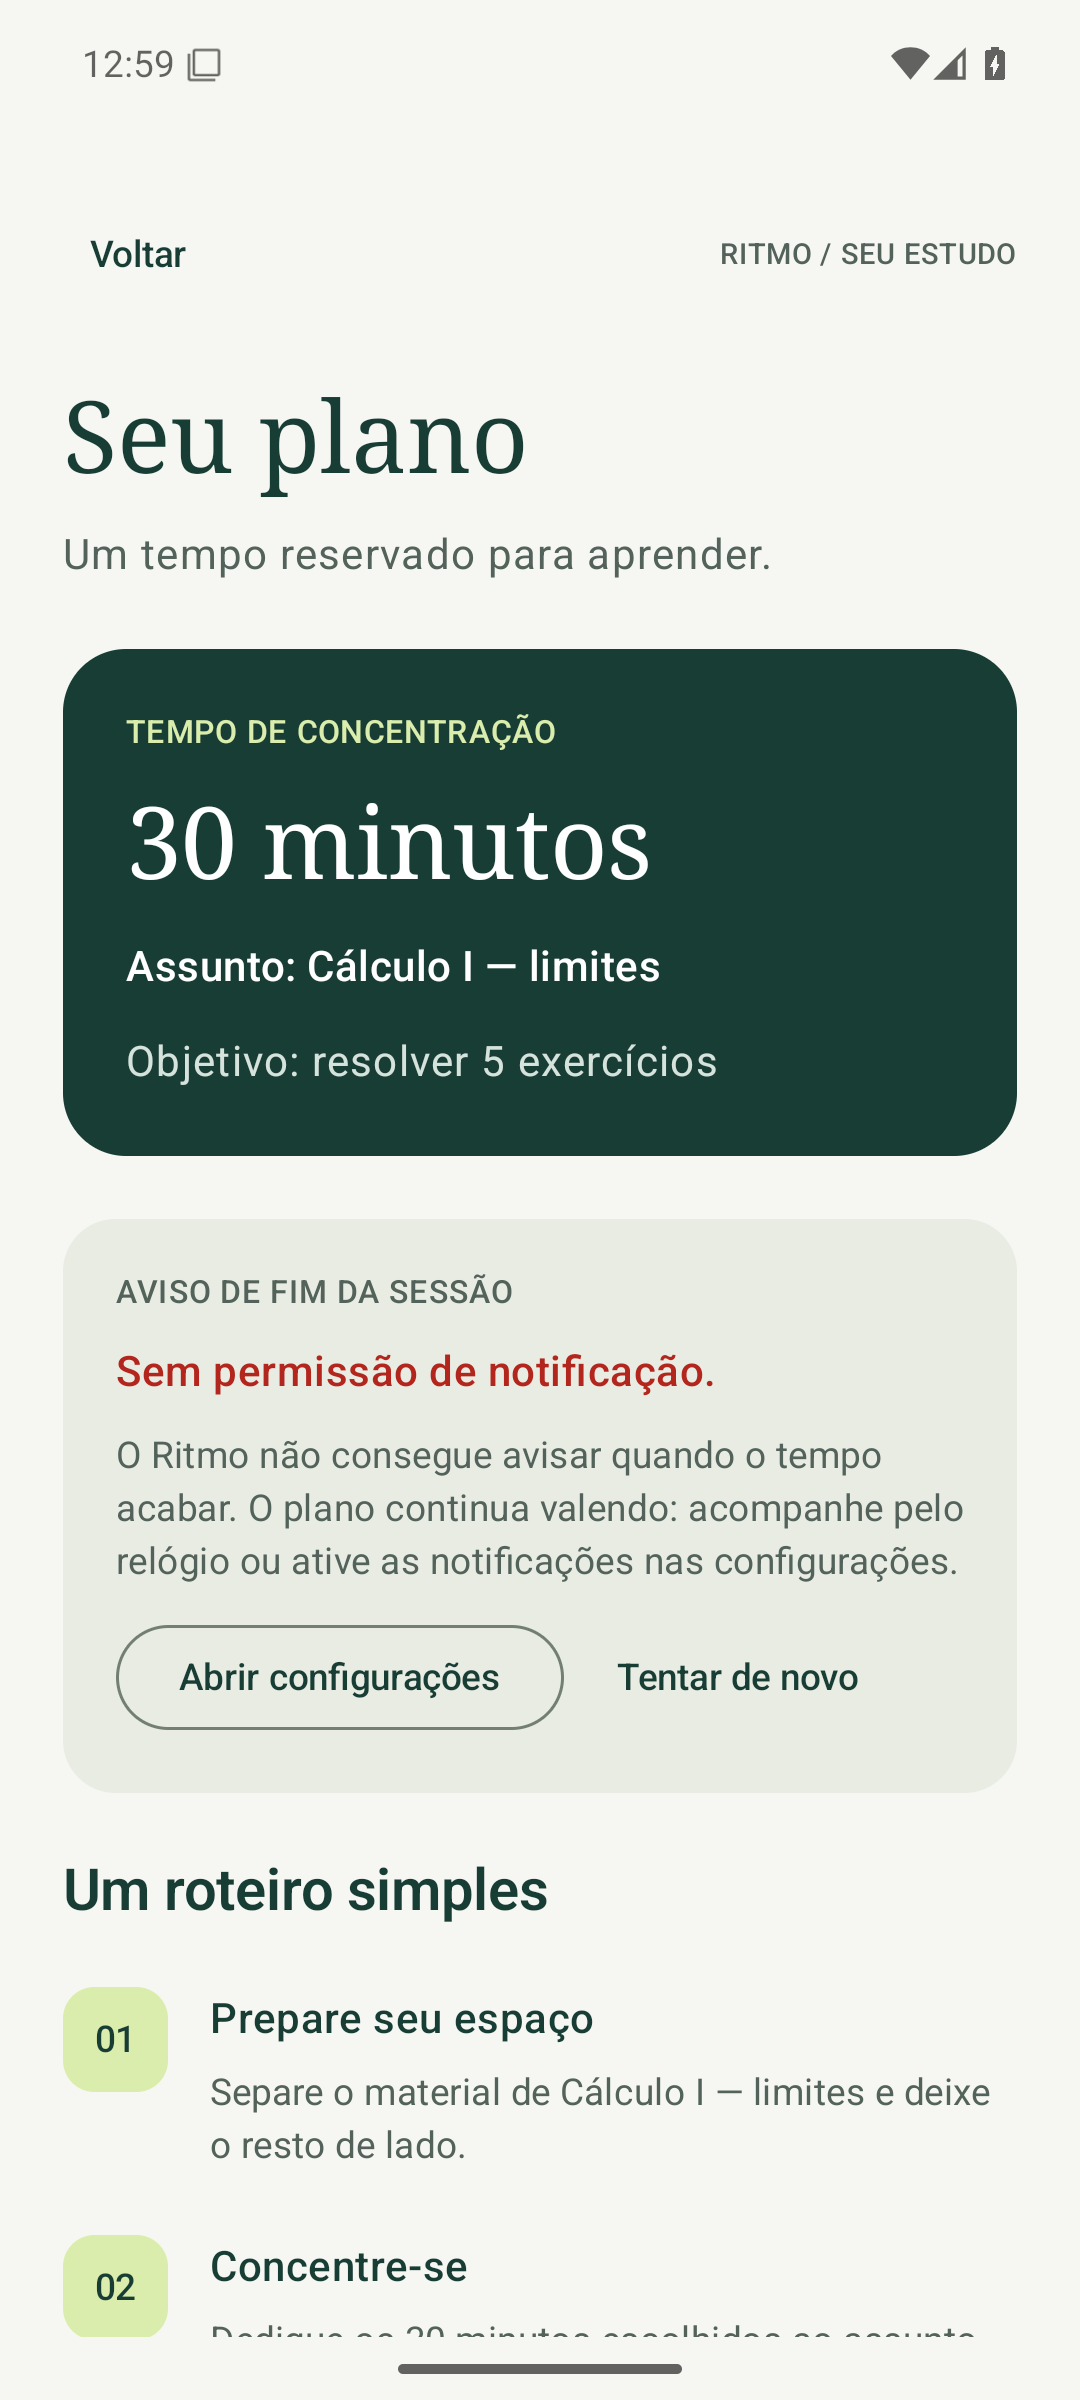
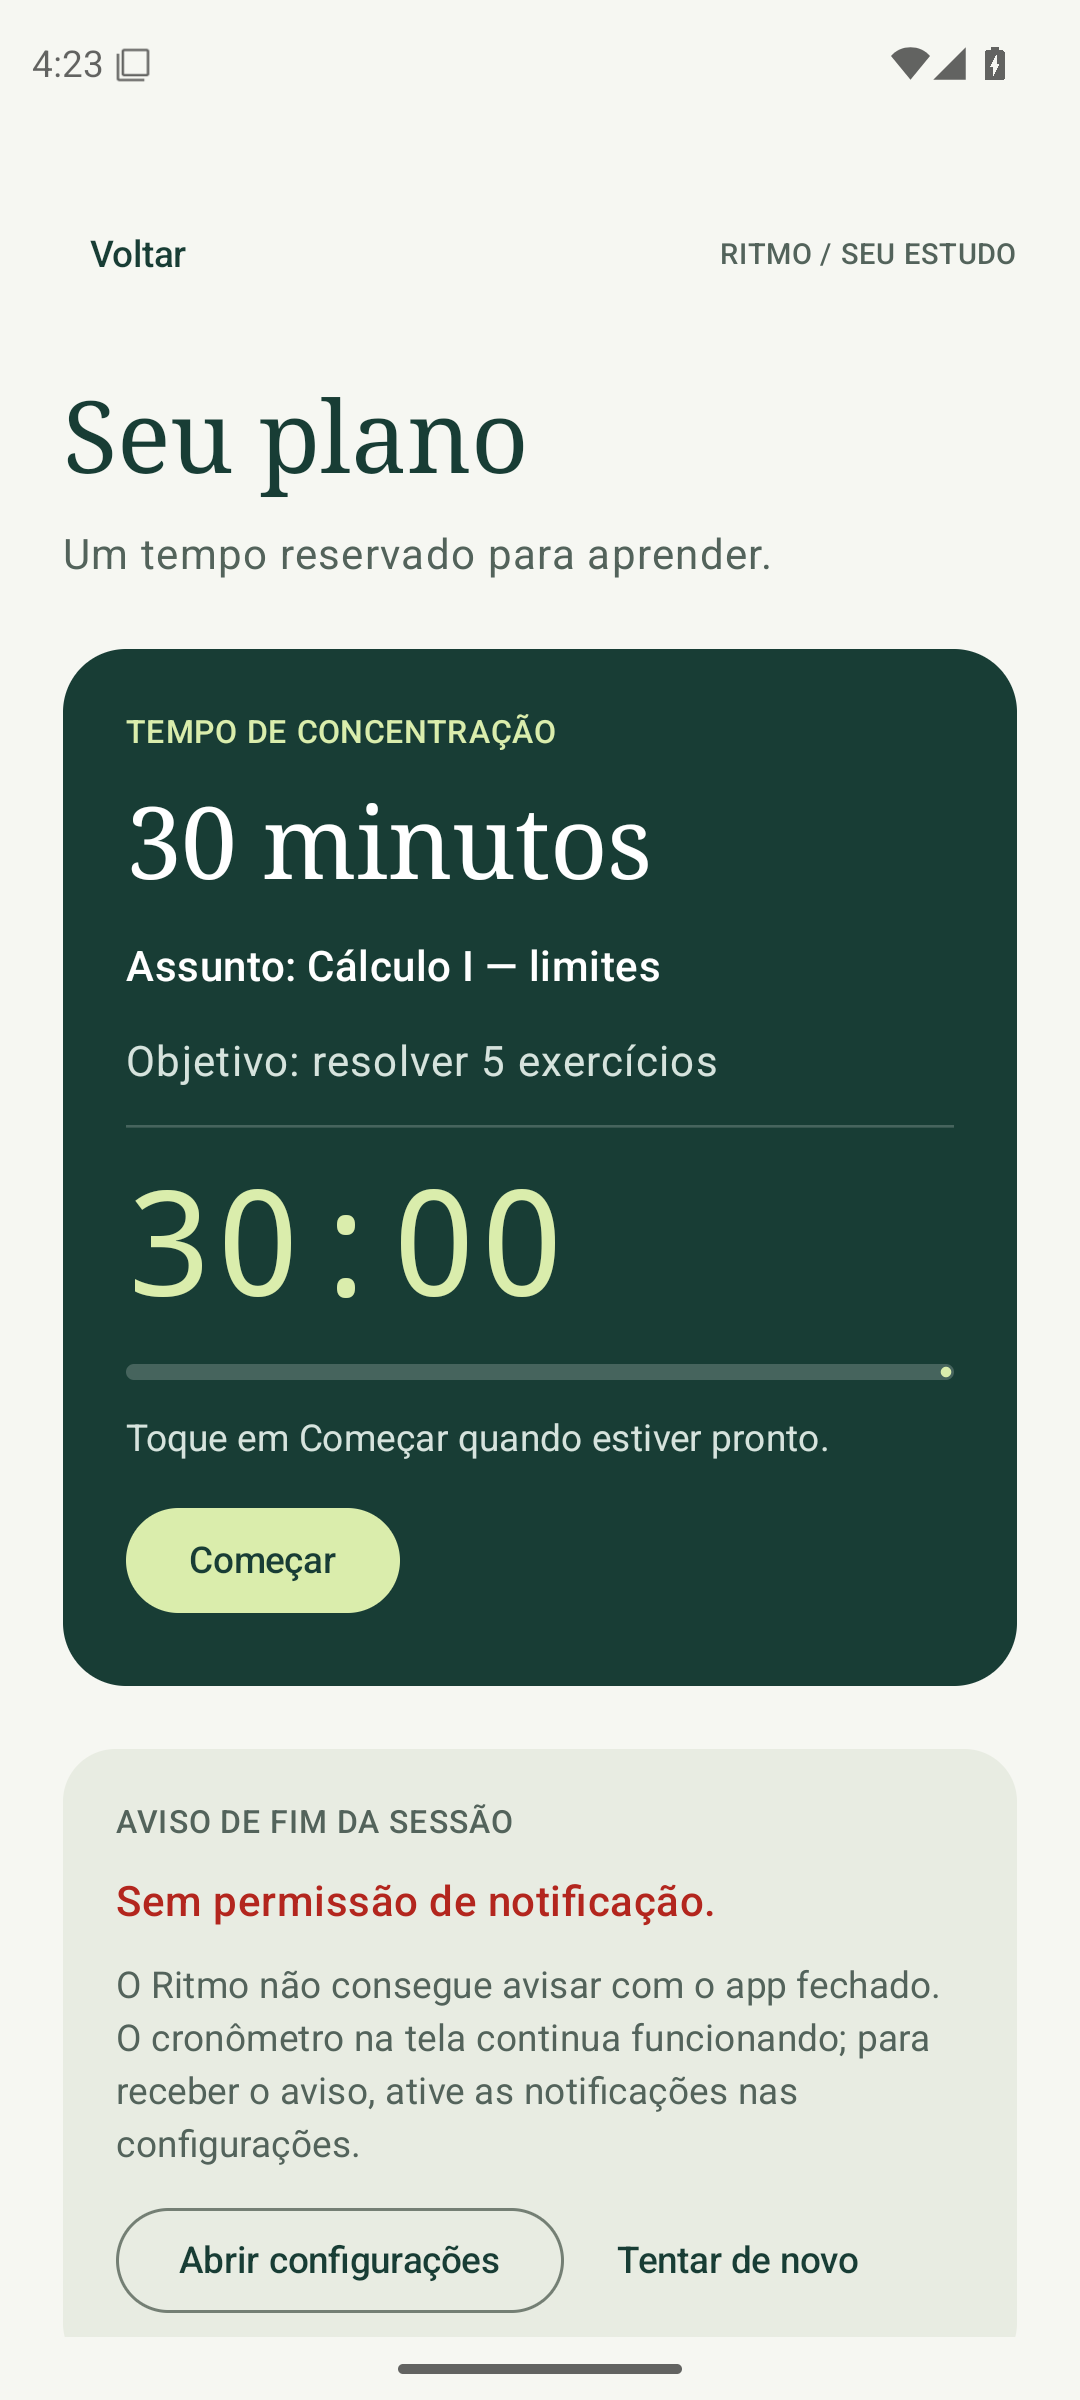
docs: document timer, weekly goal and history improvements
Claude-Session: https://claude.ai/code/session_01E2sQ1PkPeivorK7iFCHZqa

diff --git a/projects/team-09/evidence/sprint-06/validation.md b/projects/team-09/evidence/sprint-06/validation.md
@@ -9,11 +9,11 @@ Comandos, a partir de `app/`:
 
 | Conjunto | Resultado |
 | --- | --- |
-| Testes locais (`SessionRulesTest`) | 9 aprovados, 0 falhas; 3 novos para a regra VR-05 ([unit-tests.xml](unit-tests.xml)) |
-| Testes instrumentados | 25 aprovados, 0 falhas; 6 testes de evidência ignorados nessa execução, conforme previsto ([instrumented-tests.xml](instrumented-tests.xml)) |
-| Lint | 0 erros e 19 avisos ([lint.txt](lint.txt)) |
+| Testes locais | 17 aprovados, 0 falhas: `SessionRulesTest` 9 (3 novos para a regra VR-05), `StudyTimerTest` 5 e `WeeklyGoalTest` 3 ([unit-tests.xml](unit-tests.xml)) |
+| Testes instrumentados | 31 aprovados, 0 falhas; 8 testes de evidência ignorados nessa execução, conforme previsto ([instrumented-tests.xml](instrumented-tests.xml)) |
+| Lint | 0 erros e 21 avisos ([lint.txt](lint.txt)) |
 
-Testes instrumentados por classe: `FormTest` 7, `DurationTest` 5 (reescrito para a duração digitada), `HistoryTest` 5, `NavigationTest` 4, `ReminderTest` 3 (novo) e `WelcomeTest` 1.
+Testes instrumentados por classe: `FormTest` 7, `HistoryTest` 7, `DurationTest` 5 (reescrito para a duração digitada), `NavigationTest` 4, `ReminderTest` 4, `TimerTest` 3 e `WelcomeTest` 1.
 
 ## Cenários da integração
 
@@ -22,8 +22,18 @@ Antes de cada passo de evidência, o script retira a permissão de notificação
 | Cenário | Passo | Resultado |
 | --- | --- | --- |
 | Alternativo: permissão negada | `Sprint06Evidence#notificationDenied` toca em **Não permitir** | O cartão mostra “Sem permissão de notificação.”, com a explicação, Abrir configurações e Tentar de novo ([integration-alternative-state.png](integration-alternative-state.png)) |
-| Sucesso: permissão concedida | `Sprint06Evidence#notificationAllowed` toca em **Permitir** | “Aviso marcado para 13:30.” (30 min depois das 13:00 do emulador) e Cancelar aviso ([integration-success.png](integration-success.png)) |
+| Sucesso: permissão concedida | `Sprint06Evidence#notificationAllowed` toca em **Permitir** | “Aviso marcado para 16:53.” (30 min depois do horário do emulador) e Cancelar aviso ([integration-success.png](integration-success.png)) |
 | Sucesso: notificação | No mesmo passo, o `SessionEndWorker` é executado sem esperar os 30 minutos | A gaveta mostra “Sessão concluída: Cálculo I — limites” / “Seus 30 minutos acabaram. Hora de fazer uma pausa.” ([integration-notification.png](integration-notification.png)) |
+
+## Melhorias de uso
+
+| Cenário | Verificação | Resultado |
+| --- | --- | --- |
+| Cronômetro | `TimerTest`: começa no tempo digitado; Começar, Pausar (o tempo para), Continuar e Recomeçar; continua rodando após recriar a tela. `ImprovementsEvidence#timer` | PASS ([timer-running.png](timer-running.png)) |
+| Aviso acompanha o cronômetro | `ReminderTest.reminderFollowsTheTimer`: pausar deixa o trabalho `CANCELLED` e mostra “Aviso pausado junto com o cronômetro.”; continuar volta a `ENQUEUED` | PASS |
+| Meta da semana | `HistoryTest.weeklyGoalCountsSavedMinutesAndCanBeChanged`: soma a sessão salva, +30/−30 min, meta mantida após recriar a tela. `ImprovementsEvidence#history` | PASS ([weekly-goal.png](weekly-goal.png)) |
+| Excluir com Desfazer | `HistoryTest.deleteRemovesTheSessionAndUndoBringsItBack` | PASS ([history-deleted.png](history-deleted.png)) |
+| Ver todas | `HistoryTest.homeReadsDatabaseNewestFirstLimitedToFive`: 5 visíveis, Ver todas mostra a 6ª, Mostrar menos volta às 5 | PASS ([history-all.png](history-all.png)) |
 
 O atraso de N minutos é de responsabilidade do WorkManager. O teste `ReminderTest.reminderIsScheduledAndCanBeCancelled` confere que o trabalho fica `ENQUEUED` depois do toque e `CANCELLED` depois de Cancelar aviso.
 
@@ -44,6 +54,8 @@ O atraso de N minutos é de responsabilidade do WorkManager. O teste `ReminderTe
 
 - Na primeira versão, o cartão do aviso ficava abaixo do roteiro, na mesma altura do botão Planejar meu estudo da tela anterior. O teste de toque duplo (`NavigationTest.rapidForwardTapsDoNotDuplicateTheDestination`) mostrou que o segundo toque caía em Avisar quando acabar e abria a janela de permissão sem querer. O cartão foi movido para logo abaixo do tempo da sessão.
 - Em uma das execuções, uma janela de erro do sistema do emulador tirou o foco do app e derrubou vários testes. O script passou a esconder essas janelas (`hide_error_dialogs`) antes dos testes.
+- Nas melhorias, dois testes novos falharam na primeira execução porque a mensagem “Sessão salva no histórico.” cobria o botão tocado no fim da tela. Os testes passaram a esperar a mensagem sumir antes de tocar.
+- A tela do plano agora ignora toques durante a animação de entrada, o que elimina a causa do toque duplo descrito acima.
 - Lint: os avisos são, em sua maioria, versões mais novas de bibliotecas (mantidas por compatibilidade com o Kotlin 2.1.20). O aviso `ObsoleteSdkInt` em `ReminderCard.kt` é um falso positivo: a verificação de versão é necessária, porque o `minSdk` é 24.
 
 ## Capturas
@@ -52,3 +64,7 @@ O atraso de N minutos é de responsabilidade do WorkManager. O teste `ReminderTe
 ![integration-alternative-state.png](integration-alternative-state.png)
 ![integration-notification.png](integration-notification.png)
 ![duration-field.png](duration-field.png)
+![timer-running.png](timer-running.png)
+![weekly-goal.png](weekly-goal.png)
+![history-all.png](history-all.png)
+![history-deleted.png](history-deleted.png)

diff --git a/projects/team-09/README.md b/projects/team-09/README.md
@@ -17,7 +17,9 @@ Estudantes com pouco tempo disponível podem adiar o estudo por não saberem com
 
 Sprint 06: o estudante digita quantos minutos vai estudar (de 5 a 180, com atalhos de 15, 25, 45 e 60). No plano, o botão Avisar quando acabar pede a permissão de notificação e agenda, com o WorkManager, um aviso para o fim da sessão, que chega mesmo com o app fechado. Se a permissão for negada, o app explica e oferece abrir as configurações.
 
-O escopo até a sprint 6 é apresentar o aplicativo, informar duração, assunto e objetivo, consultar o plano, salvar as sessões no histórico e receber o aviso de fim da sessão. Cronômetro na tela, edição e exclusão de sessões e login ficam fora desta entrega.
+Também na Sprint 06: cronômetro em regressiva no plano (Começar, Pausar, Continuar e Recomeçar), com o aviso de fim acompanhando o cronômetro; meta da semana na tela inicial; exclusão de sessões do histórico, com Desfazer; e Ver todas, para listar mais que as 5 sessões recentes.
+
+O escopo até a sprint 6 é apresentar o aplicativo, informar duração, assunto e objetivo, consultar o plano com cronômetro, salvar e excluir sessões do histórico, acompanhar a meta da semana e receber o aviso de fim da sessão. Edição de sessões, sincronização e login ficam fora desta entrega.
 
 ## Executar
 

diff --git a/projects/team-09/docs/specs/SPEC-006.md b/projects/team-09/docs/specs/SPEC-006.md
@@ -79,7 +79,7 @@ Kotlin, Jetpack Compose, Material 3, SDK mínimo 24 e compilação com SDK 35. W
 
 ## 7. Out of Scope
 
-Cronômetro na tela, pausar ou retomar a sessão, alarme sonoro exato (`SCHEDULE_EXACT_ALARM`), lembretes recorrentes e sincronização.
+Alarme sonoro exato (`SCHEDULE_EXACT_ALARM`), lembretes recorrentes e sincronização.
 
 ## 8. Acceptance Criteria
 
